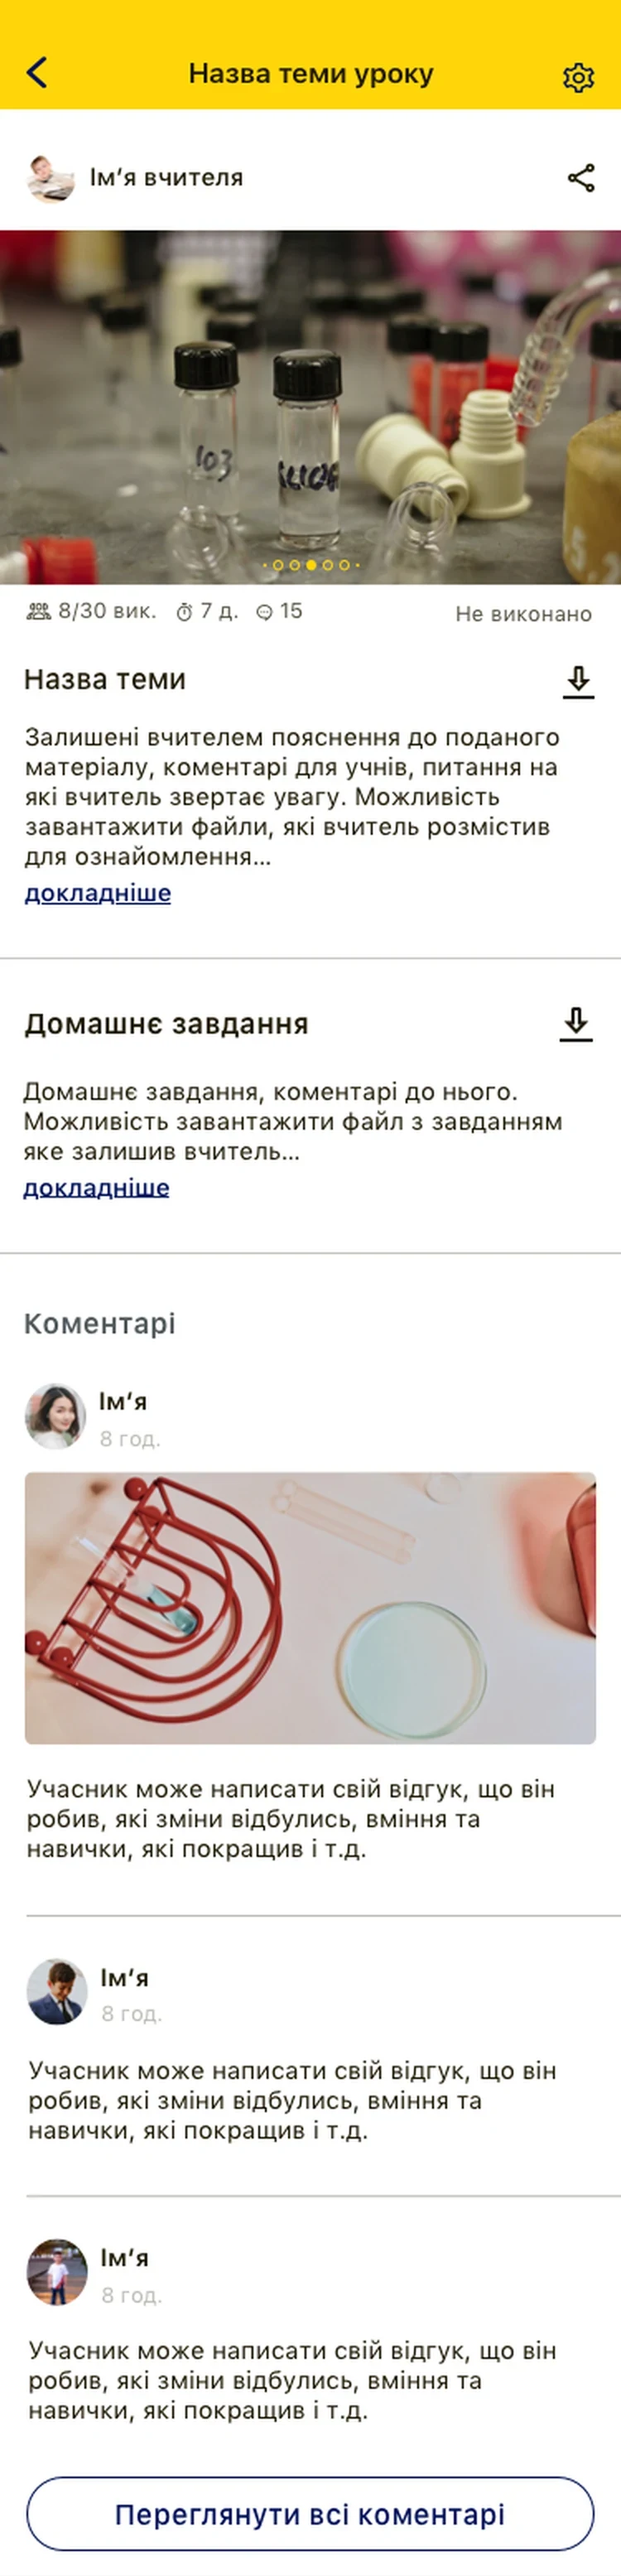
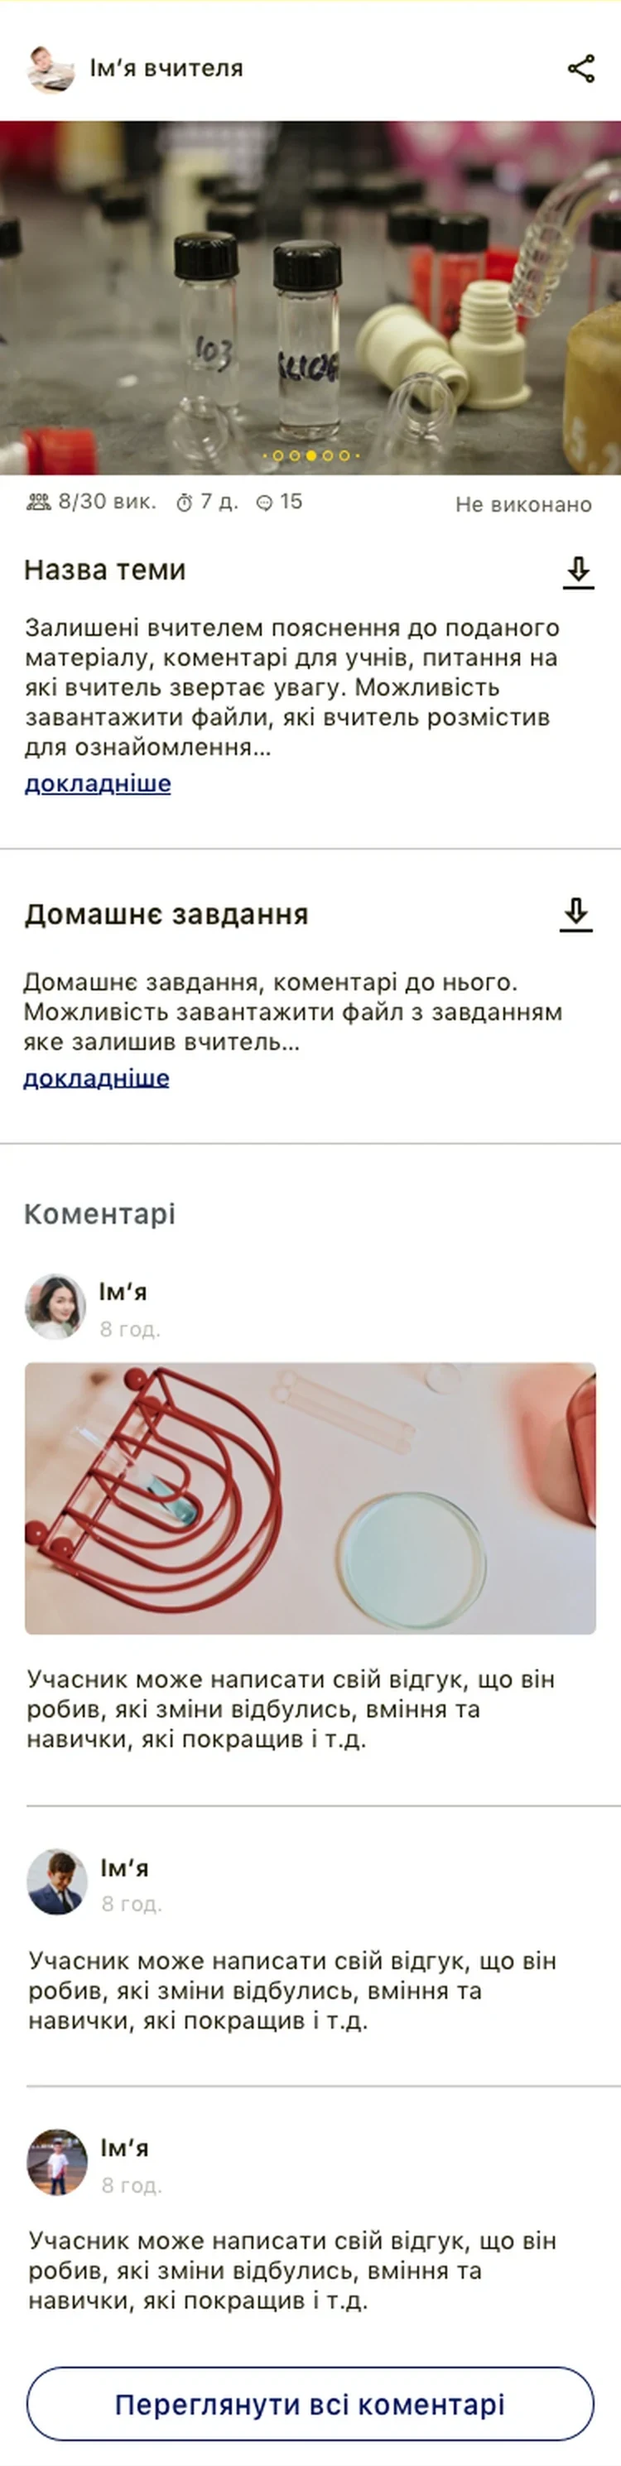
School lesson screen: top nav bar fixed, the lesson scrolls under it

diff --git a/school.html b/school.html
@@ -74,8 +74,8 @@ h1{font-size:clamp(36px,5.6vw,80px);line-height:1.02;letter-spacing:-.045em;max-
 /* the tab bar stays put while the screen scrolls */
 .vp .bar{position:absolute;left:0;right:0;bottom:0;z-index:1}
 /* the long screens scroll slowly while they are on screen */
-.feed .vp img:not(.bar):not(.tabs){animation:feed var(--t,16s) ease-in-out 1s infinite alternate;animation-play-state:paused}
-.play .feed .vp img:not(.bar){animation-play-state:running}
+.feed .vp img:not(.bar):not(.tabs):not(.nav-bar){animation:feed var(--t,16s) ease-in-out 1s infinite alternate;animation-play-state:paused}
+.play .feed .vp img:not(.bar):not(.nav-bar){animation-play-state:running}
 /* home feed: the search scrolls away, then the category tabs stick under the status bar.
    Sizes in 1x screen points via .vp width (375): tabs 64 pt from the top, scroll 766 pt. */
 .vp.home{container-type:inline-size}
@@ -84,6 +84,12 @@ h1{font-size:clamp(36px,5.6vw,80px);line-height:1.02;letter-spacing:-.045em;max-
 .feed .vp.home .tabs{animation:tabs-home var(--t,16s) 1s infinite alternate;animation-play-state:paused}
 @keyframes feed-home{0%,12%{transform:translateY(0);animation-timing-function:ease-in}18.4%{transform:translateY(-17.07cqw);animation-timing-function:ease-out}88%,100%{transform:translateY(-204.27cqw)}}
 @keyframes tabs-home{0%,12%{transform:translateY(17.07cqw);animation-timing-function:ease-in}18.4%,100%{transform:translateY(0)}}
+/* lesson: the nav bar stays at the top; the content (1489 pt) scrolls under it, 958 pt */
+.vp.lesson{container-type:inline-size}
+.vp .nav-bar{position:absolute;left:0;right:0;top:0;z-index:1}
+.vp.lesson img:not(.bar):not(.nav-bar){margin-top:17.6cqw}
+.feed .vp.lesson img:not(.bar):not(.nav-bar){animation-name:feed-lesson}
+@keyframes feed-lesson{0%,12%{transform:translateY(0)}88%,100%{transform:translateY(-255.47cqw)}}
 @keyframes feed{0%,12%{transform:translateY(0)}88%,100%{transform:translateY(var(--to))}}
 
 /* reveal on scroll (only with JS) */
@@ -303,7 +309,7 @@ footer .wrap{display:flex;justify-content:space-between;gap:16px;flex-wrap:wrap}
         </div></div></div></div>
         <div class="well y rv" style="--d:.15s"><div class="phone feed" style="--to:-61.6%;--t:18s"><div class="body"><div class="screen">
           <div class="sb" aria-hidden="true"><span>9:41</span><i class="island"></i><svg><use href="#sbi"/></svg></div>
-          <div class="vp"><img src="assets/work/school/screen-t-lesson.webp" alt="A lesson as pupils see it: the teacher, a photo, the topic, the teacher's notes with files to download, and the homework under it." width="750" height="3110" loading="lazy"><img class="bar" src="assets/work/school/screen-t-lesson-bar.webp" alt="" width="750" height="100" loading="lazy"></div>
+          <div class="vp lesson"><img class="nav-bar" src="assets/work/school/screen-t-lesson-nav.webp" alt="" width="750" height="132" loading="lazy"><img src="assets/work/school/screen-t-lesson.webp" alt="A lesson as pupils see it: the teacher, a photo, the topic, the teacher's notes with files to download, and the homework under it." width="750" height="2978" loading="lazy"><img class="bar" src="assets/work/school/screen-t-lesson-bar.webp" alt="" width="750" height="100" loading="lazy"></div>
         </div></div></div></div>
       </div>
     </div>

diff --git a/school.md b/school.md
@@ -31,7 +31,7 @@ Sources: her Behance case [IOS App_School](https://www.behance.net/gallery/15035
 ## Sections, in order
 1. **First block** — rebuilt in HTML and CSS after her Figma frame 913:70584: a yellow band, a large navy circle at the top right, a half navy, half yellow circle on the left edge, "UI/UX design concept", the "iOS App" pill, "School" and "Mobile service for remote learning and development of good habits" (in two lines, broken after "learning", as in Figma; 2026-10-10, her request). The old iPhone Xs mockup is replaced by a phone drawn as a fine outline (her request, 2026-10-10: "not a mockup but a frame"; the first heavy black-bezel version was too coarse for the site): a white body with a hairline edge (white on the yellow tiles so it does not stand out, 2026-10-10, her request; translucent white on navy; navy in the first block and on the cream tile), thin side buttons, the screen floating inside with a soft navy shadow, a Dynamic Island and a new status bar (9:41). The frame shows the onboarding screen ("Я вчитель" / "Я учень"). The phone rises in once when the page opens.
 2. **About / Problem / Goal / Solution.** (The Process row was removed 2026-10-10, her request.)
-3. **In use** — five groups, each a photo, a short text and two screens. Layout (2026-10-10, her request): group 1, wide photo, the text on the photo's left edge, the phones below on the right; groups 2 and 4, wide photo, the phones on the left with the text beside them on the right; groups 3 and 5, the text on the left and the tall photo (4:5) on the right, its top on the photo's top, the phones below on the right (swapped 2026-10-10, her request). Every edge sits on one 12-column grid (2026-10-10, her request): each phone tile spans 4 columns with the same gap as the grid, so the photos and text line up with the tile edges of the block before. Larger gaps around the text (2026-10-10, her request): the rows of photo, text and phones sit up to 128 px apart, and text beside phones or a photo keeps up to 48 px more distance from them. The photos are AI images generated with Figma AI (gpt-image-2.5, her Pro plan, 2026-10-10), not real people, in the project's warm yellow and navy. The screens are her Sketch exports from Drive, the old 2020 status bar cropped off and shown at 2× in the modern frame. Phones rise in as they scroll into view; the two long screens (home feed, lesson) scroll slowly inside the frame while visible, with the bottom tab bar fixed in place: it is cut off the screen image into its own file (`screen-p-home-bar.webp`, `screen-t-lesson-bar.webp`) and laid over the bottom of the screen (2026-10-10, her request). On the home feed the category tabs (sport, travel, creativity, study, rest) first scroll up with the search, then stick under the status bar once the search has gone (2026-10-10, her request): the tab strip is its own file, `screen-p-home-tabs.webp`, moved in step with the feed. With reduced motion there is no movement.
+3. **In use** — five groups, each a photo, a short text and two screens. Layout (2026-10-10, her request): group 1, wide photo, the text on the photo's left edge, the phones below on the right; groups 2 and 4, wide photo, the phones on the left with the text beside them on the right; groups 3 and 5, the text on the left and the tall photo (4:5) on the right, its top on the photo's top, the phones below on the right (swapped 2026-10-10, her request). Every edge sits on one 12-column grid (2026-10-10, her request): each phone tile spans 4 columns with the same gap as the grid, so the photos and text line up with the tile edges of the block before. Larger gaps around the text (2026-10-10, her request): the rows of photo, text and phones sit up to 128 px apart, and text beside phones or a photo keeps up to 48 px more distance from them. The photos are AI images generated with Figma AI (gpt-image-2.5, her Pro plan, 2026-10-10), not real people, in the project's warm yellow and navy. The screens are her Sketch exports from Drive, the old 2020 status bar cropped off and shown at 2× in the modern frame. Phones rise in as they scroll into view; the two long screens (home feed, lesson) scroll slowly inside the frame while visible, with the bottom tab bar fixed in place: it is cut off the screen image into its own file (`screen-p-home-bar.webp`, `screen-t-lesson-bar.webp`) and laid over the bottom of the screen (2026-10-10, her request). On the home feed the category tabs (sport, travel, creativity, study, rest) first scroll up with the search, then stick under the status bar once the search has gone (2026-10-10, her request): the tab strip is its own file, `screen-p-home-tabs.webp`, moved in step with the feed. On the lesson screen the top nav bar (back, "Назва теми уроку", settings) stays fixed and the lesson scrolls under it (2026-10-10, her request): `screen-t-lesson-nav.webp`. With reduced motion there is no movement.
    1. *Photo:* two children at home on the floor with books, laughing at a phone (wide, 1536 × 864, `kids-home`). *Text:* **Challenges, not another video call.** Pupils open a feed of challenges from classmates and teachers, sorted by sport, travel, creativity and study. Each one runs for a set time, like "English every day", and turns a small task into a habit. *Screens:* home feed (scrolls), challenge.
    2. *Photo:* a teacher at her kitchen table in the evening, preparing a lesson with books and a phone (square, 1024, `teacher-prep`; shown full width, cropped to 16:9, 2026-10-10, her request). *Text:* **A lesson in three steps.** The teacher picks a date, adds photos, video and files, and publishes. The class was chosen at sign-up, so the lesson reaches the right pupils, and the homework sits right under it. *Screens:* new lesson, lesson (scrolls).
    3. *Photo:* a boy running down the hallway to show his mother something on a phone (portrait, 960 × 1280, `kid-runs`). *Text:* **Homework that answers back.** Pupils send homework with a comment and files. A notification tells them when the teacher has commented on it or graded it, so nobody waits for a parent to forward a message. *Screens:* homework, notifications.
